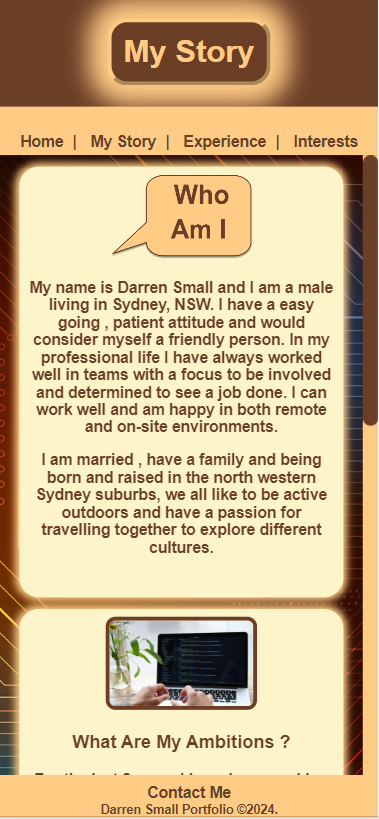
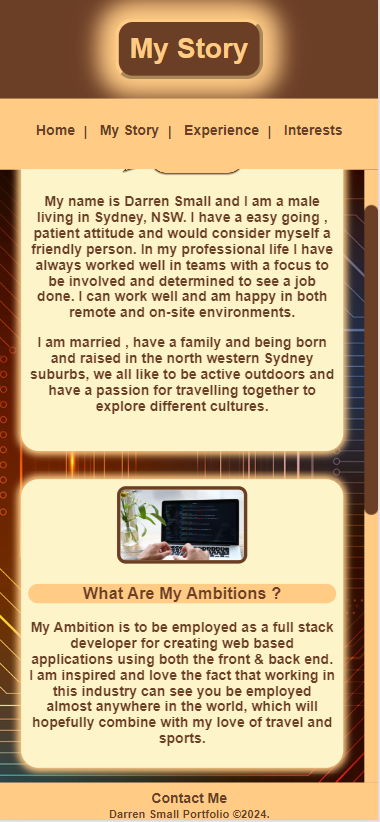
added more content to readme & to mystory page

diff --git a/src/pages/mystory.html b/src/pages/mystory.html
@@ -17,34 +17,34 @@
         <a href="./experience.html" target="_blank">Experience</a>|
         <a href="./interests.html" target="_blank">Interests</a>
     </nav>
-    <!-- Text Component 4 + Graphical Component 2 = main & section elements -->
+    <!-- Text Component 4 + Graphical Component 2 = main & article elements -->
     <main class="back-image">
-        <article>
-            <section class="mystory">
-                <img id="whoami" src="../images/WhoAmI.png" alt="speach box saying who am i">
-                <p>My name is Darren Small and I am a male living in Sydney, NSW. I have a easy going , patient attitude and would consider myself a friendly person. In my professional life I have always worked well in teams with a focus to be involved and determined to see a job done. I can work well and am happy in both remote and on-site environments.
-                <p>I am married , have a family and being born and raised in the north western Sydney suburbs, we all like to be active outdoors and have a passion for travelling together to explore different cultures.</p>
-                <br>
-            </section>
-            <section class="mystory">
-                <img id="mypc" src="../images/handswithlaptop+code.jpg" alt="hands on laptop with coding displayed">
-                <h3>What Are My Ambitions ?</h3>
-                <p>For the last 8 years I have been working in & leading a team in a companies software product development. As a product owner I have always been interested and interacted with the people in the programming / development side of the SDLC but never been formerly trained in this area. So over the last year I have decided and moved forward in being trained for persuing this direction of my professional life.</p>
-                <p>My Ambition is to be employed as a full stack developer for creating web based applications using both the front & back end. I am inspired and love the fact that working in this industry can see you be employed almost anywhere in the world, which will hopefully combine with my love of travel and sports ! </p>
-                <p>I have recently finished studying at TAFE a Certificate IV in IT - programming / development, and while doing this I have followed a number of blogs for help and training purposes. See some examples & links below:</p>
-                <ul>
+            <article class="mystory1">
+                    <img src="../images/WhoAmI.png" alt="speach box saying who am i">
+                    <p>My name is Darren Small and I am a male living in Sydney, NSW. I have a easy going , patient attitude and would consider myself a friendly person. In my professional life I have always worked well in teams with a focus to be involved and determined to see a job done. I can work well and am happy in both remote and on-site environments.
+                    <p>I am married , have a family and being born and raised in the north western Sydney suburbs, we all like to be active outdoors and have a passion for travelling together to explore different cultures.</p>
+                    <br>
+            </article>
+            <article class="mystory2">
+                    <img src="../images/handswithlaptop+code.jpg" alt="hands on laptop with coding displayed">
+                    <h3>What Are My Ambitions ?</h3>
+                    <p>My Ambition is to be employed as a full stack developer for creating web based applications using both the front & back end. I am inspired and love the fact that working in this industry can see you be employed almost anywhere in the world, which will hopefully combine with my love of travel and sports.</p>
+            </article>
+            <!-- Using the Unordered list element in this text component -->
+            <article class="mystory3">
+                    <img src="../images/study.jpg" alt="study books">
+                    <p>I have recently finished studying at TAFE a Certificate IV in IT - programming / development, and while doing this I have followed a number of blogs for help and training purposes. See some examples & links below:</p>
+                    <ul>
                     <li>Build a mobile app: <a href="https://www.linkedin.com/learning/create-a-crm-mobile-application-with-react-native-2/build-a-crm-using-react-native?u=57684225" target="_blank">Build a CRM using React Native, 3/12/2019.</a></li>
                     <li>New expo CLI for emulator: <a href="https://blog.expo.dev/the-new-expo-cli-f4250d8e3421" target="_blank">The new Expo CLI, 12/8/2022.</a></li>
                     <li>Fix error in app: <a href="https://stackoverflow.com/questions/72842902/no-safe-area-insets-value-available-make-sure-you-are-rendering-safeareaprovi" target="_blank">Rendering safe area provider, 07/2022.</a></li>
                     <li>For C# projects, linking classes: <a href="https://stackoverflow.com/questions/65694459/linking-two-classes-with-mvvm-on-different-pages" target="_blank">Linking two classes, 01/2021.</a></li>
                     <li>I also enjoy learning about C# from this site: <a href="https://codewithmosh.com/" target="_blank">Code with Mosh</a></li>
-                </ul>
-                <p><h3>My Blog</h3>This is also a blog I created to combine my passion of coding & travel, see link below:</p>
-                
-                <a href="https://stupendous-nougat-eb47c7.netlify.app/" target="_blank"><h4>The Small Travellers.</h4></a>
-                 
-            </section>
-        </article>
+                    </ul>
+                    <p><h3>My Blog</h3>This is also a blog I created to combine my passion of coding & travel, see link below:</p>
+                    
+                    <a href="https://stupendous-nougat-eb47c7.netlify.app/" target="_blank"><h4>The Small Travellers.</h4></a>
+            </article>
     </main>
     <footer>
          <a href="./contact.html" target="_blank">Contact Me</a>

diff --git a/src/CSS/mystory.css b/src/CSS/mystory.css
@@ -44,6 +44,17 @@ nav a, footer a {
     padding: 0.6rem;
     text-decoration: none;
 }
+/* Flex Box used for wrapping boxes */
+main {
+    width: 100%;
+    display: flex;
+    flex-direction: row;
+    flex-wrap: wrap;
+    justify-content: center;
+    align-items: center; 
+    text-align: center; 
+    gap: 32px;
+}
 
 /* Graphical Component 2 styling */
 .back-image {
@@ -53,44 +64,31 @@ nav a, footer a {
     background-position: center;
     background-size: cover;
     position: relative;
-    margin-bottom:auto;
-}
-
-article {
-    display: flex;
-    flex-direction: column;
-    justify-content: center;
-    align-items: center;
-    flex-wrap: wrap;  
 }
 
 /* Text Component 4 styling */
-.mystory {
-    margin-top: 20px;
-    margin-left: auto;
-    margin-right: auto;
-    margin-bottom: 20px;
+article {
     background-color: var(--cream);
     padding: 0.5rem;
-    width: 85%;
     border-radius: 20px;
     box-shadow: 0 0 8px 4px var(--mandarin);
+    width: 350px;
+    height: auto;
 }
 /* Graphical Component 2 styling */
-.mystory img {
-    width: 148px;
-    height: 88px;
+article img {
+    width: 140px;
+    height: 80px;
     border-radius: 10px;
 }
 
-#mypc {
+.mystory2 img, .mystory3 img {
     border: var(--chocolate) solid 4px;
 }
 
 h3 {
     background-color: var(--mandarin);
     border-radius: 16px;
-    
 }
 
 footer {
@@ -116,7 +114,7 @@ footer a:hover, nav a:hover {
     box-shadow: 0 0 28px 24px;
 }
 
-@media screen and (max-width: 985px),(max-height: 650px) {
+@media screen and (max-width: 768px),(max-height: 900px) {
     main {
         overflow-y: scroll;
         overflow-x: hidden;
@@ -150,18 +148,16 @@ footer a:hover, nav a:hover {
         border-radius: 20px;
         box-shadow: 0 0 28px 24px;
     }
-    .mystory p {
+    div p {
         margin: 20px;
     }
+    .mystory3 {
+        width: 650px;
+    }
     /* Graphical Component 2 styling */
-    #whoami {
-        float: left;
-        width: 250px;
-        height: 150px
+    article img {
+        width: 200px;
+        height: 100px
     }
-    #mypc {
-        float: right;
-        width: 250px;
-        height: 150px;
-    }
+    
 }

diff --git a/src/pages/experience.html b/src/pages/experience.html
@@ -35,7 +35,7 @@
                     <li>Documentation:  mostly used Confluence.</li>
                     <li>Version control systems:  Used both GitHub & Bitbucket.</li>
                 </ul>
-                <a href="../images/Darren Small resume.pdf" target="_blank"><h3>Please Click Here To View My Resume</h3></a>
+                <a href="../images/DarrenSmall_resume.pdf" target="_blank"><h3>Please Click Here To View My Resume</h3></a>
             </div>
         </article>
     </section>

diff --git a/README.md b/README.md
@@ -42,6 +42,8 @@ The 3rd page, 'experience' has a link to download my resume in a pdf format.
 
 The 5th page, 'contact me' has links to view my social media and github accounts.
 
+When the screen view is a Mobile phone (<768px wide), i have added a scroll bar function for overflow. This way users know there is more content to scroll down to & can see the footer (contact me) link all the time to select when desired.
+
 ## The Design: Site Map ##
 Please see this image for the website site map: 
 
@@ -75,9 +77,9 @@ The layout of images, objects and text for desktop screens was taking into accou
 
 ![desktop screen wire frames](./docs/Desktop%20screen%20wireframes.png)
 
-## Components Used In Website ##
-The structure and design of the website has used both HTML 5 and CSS functions.
-This is a list of components used over all 5 pages to display some features to enhance the engagement of employers in understanding Darren Small as a person and as a valuable employee:
+## Components & Properties Used In Website ##
+The structure and design of the website has used both HTML 5 and CSS properties.
+This is a list of components and properties used over all 5 pages to display some features to enhance the engagement of employers in understanding Darren Small as a person and as a valuable developer employee:
 - **Re Used Text Components**
     - a header = to display the top of the page with a title of the page the user has gone to. Used on 4 pages
     - navigation bar = a section with links to navigate to other pages listed above. Using flexbox to adjust and the use of the pseudo-class 'hover' to highlight the link the user has hovered the cursor over.Used on all 5 pages
@@ -86,9 +88,14 @@ This is a list of components used over all 5 pages to display some features to e
     - 4 pages are using either section or article tags for text components to display content for the relative page. Text components styled with css.
     - 3 pages are also using the unordered list element to display text components relative to the subject or to list external links.
 - **Graphical Components**
-    - all 5 pages have graphical components (or mixed with text) to enhance the page content. Graphical components are styled with css.
-- **Animation Applied To Component**
-    - the home page has a animation function applied to a graphical component called 'ease-in-out'. This will transform the component on the page to different sizes giving the appearance of shrinking & expanding, on a infinite loop. **This only applies to larger screens - as looked a little strange on smaller screens**
+    - all 5 pages (+ the blog website) have graphical components (or mixed with text) to enhance the page content. Graphical components are styled with css.
+**CSS styling properties applied**
+- Colour Custom Properties: the colours from the colour palette have been saved as universal selectors using the '*' in each css file.
+- Text Font: on all pages the Arial font has been chosen as the first choice in the body element.
+- Background Color: this is used on all sections and components to make the content stand out.
+- Background Image: this is used on 4 pages to give tha main element area a style to match the page subject.
+- Flex Box: On all web pages (+ the blog website) Flex has been used for wrapping &/or centering of the header display, navigation bar, and the main content area for the text and graphical component sections.
+- Animation: the home page has a animation function applied to a graphical component called 'ease-in-out'. This will transform the component on the page to different sizes giving the appearance of shrinking & expanding, on a infinite loop. **This only applies to larger screens - as looked a little strange on smaller screens**
 
 ## Tech Stack ##
 - HTML5: a main index.html + 4 other html files (1 or each page) located in the pages folder.
